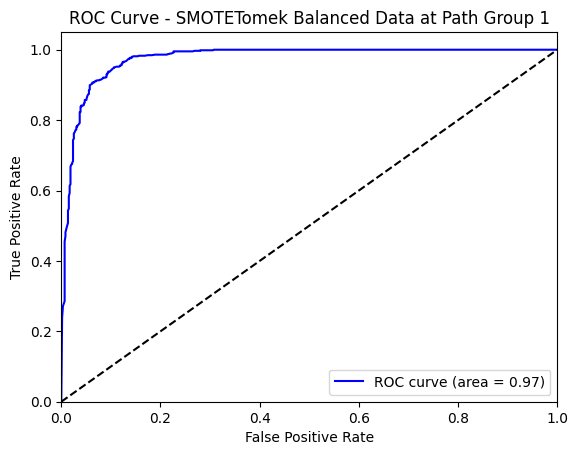
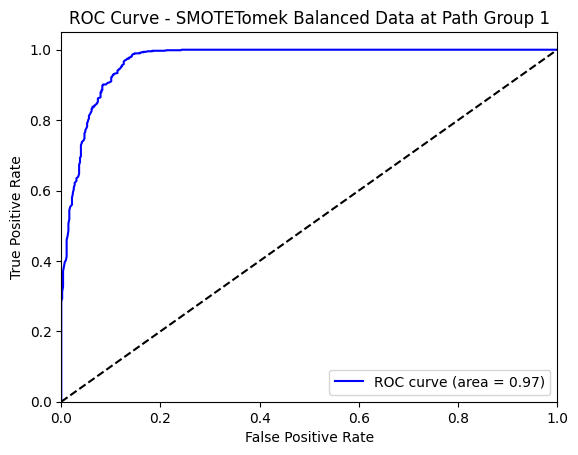
update predictor pool

Changed region(s): [[0.0934, 0.0923, 0.3737, 0.7077]]

diff --git a/random_forest_balanced/rf_smote_tomek_by_trajectories_with_specific_columns.py b/random_forest_balanced/rf_smote_tomek_by_trajectories_with_specific_columns.py
@@ -34,15 +34,91 @@ class RandomForestLongitudinalModel:
         vif_data['Feature'] = X.columns
         vif_data['VIF'] = [variance_inflation_factor(X.values, i) for i in range(X.shape[1])]
         return vif_data
+    
+    def define_chosen_variables(self, df):
+        # Ageing
+        ageing = ["Idade_T0", "Idade_T1", "Idade_T2", "Idade_T3"]
+
+        # Multimorbidity
+        # Missing values:
+        # T1: Doenca_Pulmonar, Doenca_Cardiaca, Digestiva, Acido_Urico
+        # T2: Doenca_Pulmonar, Acido_Urico
+        chronic_conditions = {
+            "T0": ["Hipertensao_T0", "Diabetes_T0", "Colesterol_T0", "Doenca_Pulmonar_T0", "Doenca_Cardiaca_T0", "Digestiva_T0", "Neurologica_T0", "Alergia_T0", "Acido_urico_T0"],
+            "T1": ["Hipertensao_T1", "Diabetes_T1", "Colesterol_T1", "Neurologica_T1", "Alergias_T1"],
+            "T2": ["Hipertensao_T2", "Diabetes_T2", "Colesterol_T2", "Doenca_Cardiaca_T2", "Doenca_Digestiva_T2", "Doenca_Neurologica_T2", "Alergias_T2"],
+            "T3": ["Hipertensao_T3", "Diabetes_T3", "Colesterol_T3", "Doenca_Pulmonar_T3", "Doenca_Cardiaca_T3", "Doenca_Aparelho_Digestivo_T3", "Doenca_Neurologica_T2", "Alergias_T3", "Acido_Urico_Elevado_T3"]
+        }
+
+        # Calculate Multimorbidity for each wave
+        for wave, variables in chronic_conditions.items():
+            df[f"Multimorbidity_{wave}"] = df[variables].sum(axis=1, skipna=True)
+
+        multimorbidity = ['Multimorbidity_T0', 'Multimorbidity_T1', 'Multimorbidity_T2', 'Multimorbidity_T3']
+
+        # Chronic Diseases
+        # Missing values:
+        # Lombalgia_T0, Lombalgia_T3
+        # OA_T1, OA_T2, OA_T3
+        # OP_T1
+        rheumatic_diseases = ["AR_T0", "EA_T0", "AP_T0", "OA_T0", "OP_T0", "Gota_T0", "Polimialgia_T0", 
+        "Les_T0", "Fibromialgia_T0", "AR_T1", "EA_T1", "AP_T1", 
+        "Gota_T1", "Polimialgia_T1", "LES_T1", "Fibromialgia_T1", 
+        "Lombalgia_T1", "AR_T2", "EA_T2", "AP_T2", "OP_T2", "Gota_T2", 
+        "Polimialgia_T2", "LES_T2", "Fibromialgia_T2", "Lombalgia_T2", "AR_T3", 
+        "EA_T3", "AP_T3", "OP_T3", "Gota_T3", "Polimialgia_T3", "LES_T3", "Fibromialgia_T3"]
+
+        # Lifestyles
+        smoking_habits = ['Cod_Fumador_T0', 'Cod_Fumador_T1', 'Cod_Fumador_T2', 'Cod_Fumador_T3']
+        alcohol_habits = ['Cod_Alcool_T0', 'Cod_Alcool_T1', 'Cod_Alcool_T2', 'Cod_Alcool_T3']
+        exercise_freq = ['Exercicio_Regular_T0', 'Exercicio_Regular_T1', 'Exercicio_Regular_T2', 'Exercicio_Regular_T3']
+        sleep_hours = ['Num_Horas_Dorme_Por_Dia_T1', 'Num_Horas_Dorme_Por_Dia_T2', 'Num_Horas_Dorme_Por_Dia_T3']
+        #dietary_behaviour = 0
+
+        # SES
+        # Missing values:
+        # Education for T1, T2, T3
+        # Employment for T3
+        #income = 0
+        education = ['Escolaridade']
+        employment = ['Sit_Prof_T0', 'Sit_Prof_T1', 'Sit_Prof_T2']
+
+        # Social support
+        # Missing values:
+        # Assistance values for T2
+        household_members = ['Num_Pessoas_Agregado_T0', 'Num_Pessoas_Agregado_T2', 'Num_Pessoas_Agregado_T3']
+        #children_household_members = 0
+        assistance = ['Assist_Domiciliaria_T0', 'Familiar_Prest_Assist_Dom_T0', 'Pessoa_Inst_Prest_Assist_Dom_T0',
+                      'Assist_Domiciliaria_T1', 'Familiar_Prest_Assist_Dom_T1', 'Pessoa_Inst_Prest_Assist_Dom_T1', 'Outro_Prest_Assist_Dom_T1',
+                      'Assist_Domiciliaria_T3', 'Familiar_Prest_Assist_Dom_T3', 'Pessoa_Inst_Prest_Assist_Dom_T3', 'Outro_Prest_Assist_Dom_T3']
+        
+        df[assistance] = df[assistance].fillna(0)
+
+        # Merge all categories into selected_vars
+        selected_vars = (ageing + multimorbidity + rheumatic_diseases + 
+                        smoking_habits + alcohol_habits + exercise_freq + sleep_hours + 
+                        education + employment + household_members + assistance)
+        
+        # List of variables to ensure are included
+        required_vars = ['Score_Depressao_T0', 'Score_Depressao_T1', 'Score_Depressao_T3']
+
+        # Manually add required variables to selected_vars if they are in X.columns but not in selected_vars
+        for var in required_vars:
+            if var in df.columns and var not in selected_vars:
+                selected_vars.append(var)
+    
+        return selected_vars, df
+
 
     def preprocess_data(self):
         df = self.data.copy()
-
-        # We will be predicting DepressivePathGroup, so first ensure that this column exists.
-        # Exclude these columns from predictors:
+        # Exclude these columns from predictors
         exclude_cols = ['ID', 'Pontuacao_Depressao', 'DepressivePathGroup',
                         'hads12', 'hads6', 'hads4', 'hads2', 'hads8', 'hads10', 'hads14', 'Time',
                         'DepressionStatus']
+        
+        selected_vars, df = self.define_chosen_variables(df)
+
         X = df.loc[:, ~df.columns.str.startswith(tuple(exclude_cols))]
         y = df['DepressivePathGroup']
 
@@ -63,15 +139,14 @@ class RandomForestLongitudinalModel:
             X[col] = X[col].astype('category').cat.codes
             X[col] = X[col].astype('category')
 
-        # Variable screening
-        selected_vars, X, y = DataPreparation().variable_screening(X.columns.tolist(), df)
-
         # Remove Time or DepressivePathGroup if they appear in selected vars
         for col_to_remove in ['Time', 'DepressivePathGroup']:
             if col_to_remove in selected_vars:
                 selected_vars.remove(col_to_remove)
 
         X = X[selected_vars]
+
+        self.data = df
 
         return X, y
 
@@ -84,8 +159,8 @@ class RandomForestLongitudinalModel:
         if 'DepressivePath' in X.columns:
             X = X.drop(columns=['DepressivePath'])
 
-        vif_data = self.calculate_vif(X)
-        print('Random Forest VIF:', vif_data)
+        #vif_data = self.calculate_vif(X)
+        #print('Random Forest VIF:', vif_data)
 
         # Split the data using the path groups (y) for stratification
         X_train, X_test, y_train, y_test = train_test_split(
@@ -124,10 +199,11 @@ class RandomForestLongitudinalModel:
         # y_test unchanged; X_test unchanged
 
         # Define class weights for the multinomial scenario
+        unique_classes = np.unique(np.concatenate((y_train, y_test)))
         class_weights = class_weight.compute_class_weight(
-            class_weight={0: 1, 1: 10}, classes=np.unique(y_train), y=y_train
+            class_weight="balanced", classes=unique_classes, y=y_train
         )
-        class_weights_dict = {i: class_weights[i] for i in range(len(class_weights))}
+        class_weights_dict = {cls: weight for cls, weight in zip(unique_classes, class_weights)}
 
         # Define pipeline
         pipeline = Pipeline([
@@ -223,7 +299,7 @@ class RandomForestLongitudinalModel:
             recall = recall_score(y_test, y_pred, zero_division=0)
             f1 = f1_score(y_test, y_pred, zero_division=0)
 
-            print(f"\nPerformance Metrics for Path Group {pg} (Group vs Rest) - RF:")
+            print(f"\nPerformance Metrics for Path Group {pg} (Group vs Rest):")
             if not np.isnan(roc_auc):
                 print(f"ROC AUC Score: {roc_auc:.4f}")
             else:
@@ -237,7 +313,7 @@ class RandomForestLongitudinalModel:
             feature_importances = pd.Series(model.feature_importances_, index=X.columns)
             important_features = feature_importances.nlargest(10)
 
-            print(f"\nTop 10 Important Features at Path Group {pg} vs Rest - RF:")
+            print(f"\nTop 10 Important Features at Path Group {pg} vs Rest:")
             print(important_features)
             important_features.to_csv(f'random_forest_balanced/output/random_forest_important_features_{dataset_label.replace(" ", "_")}_PG{pg}.csv')
 
@@ -262,9 +338,6 @@ class RandomForestLongitudinalModel:
         # Create DepressivePath and DepressivePathGroup columns in self.data if not exist
         if not {'Score_Depressao_T0', 'Score_Depressao_T1', 'Score_Depressao_T3'}.issubset(self.data.columns):
             raise ValueError("Missing necessary score columns in the dataset.")
-
-        score_columns = [col for col in self.data.columns if col.startswith('Score')]
-        print('Score Columns:', score_columns)
 
         self.data['DepressivePath'] = (
             self.data[['Score_Depressao_T0', 'Score_Depressao_T1', 'Score_Depressao_T3']]
